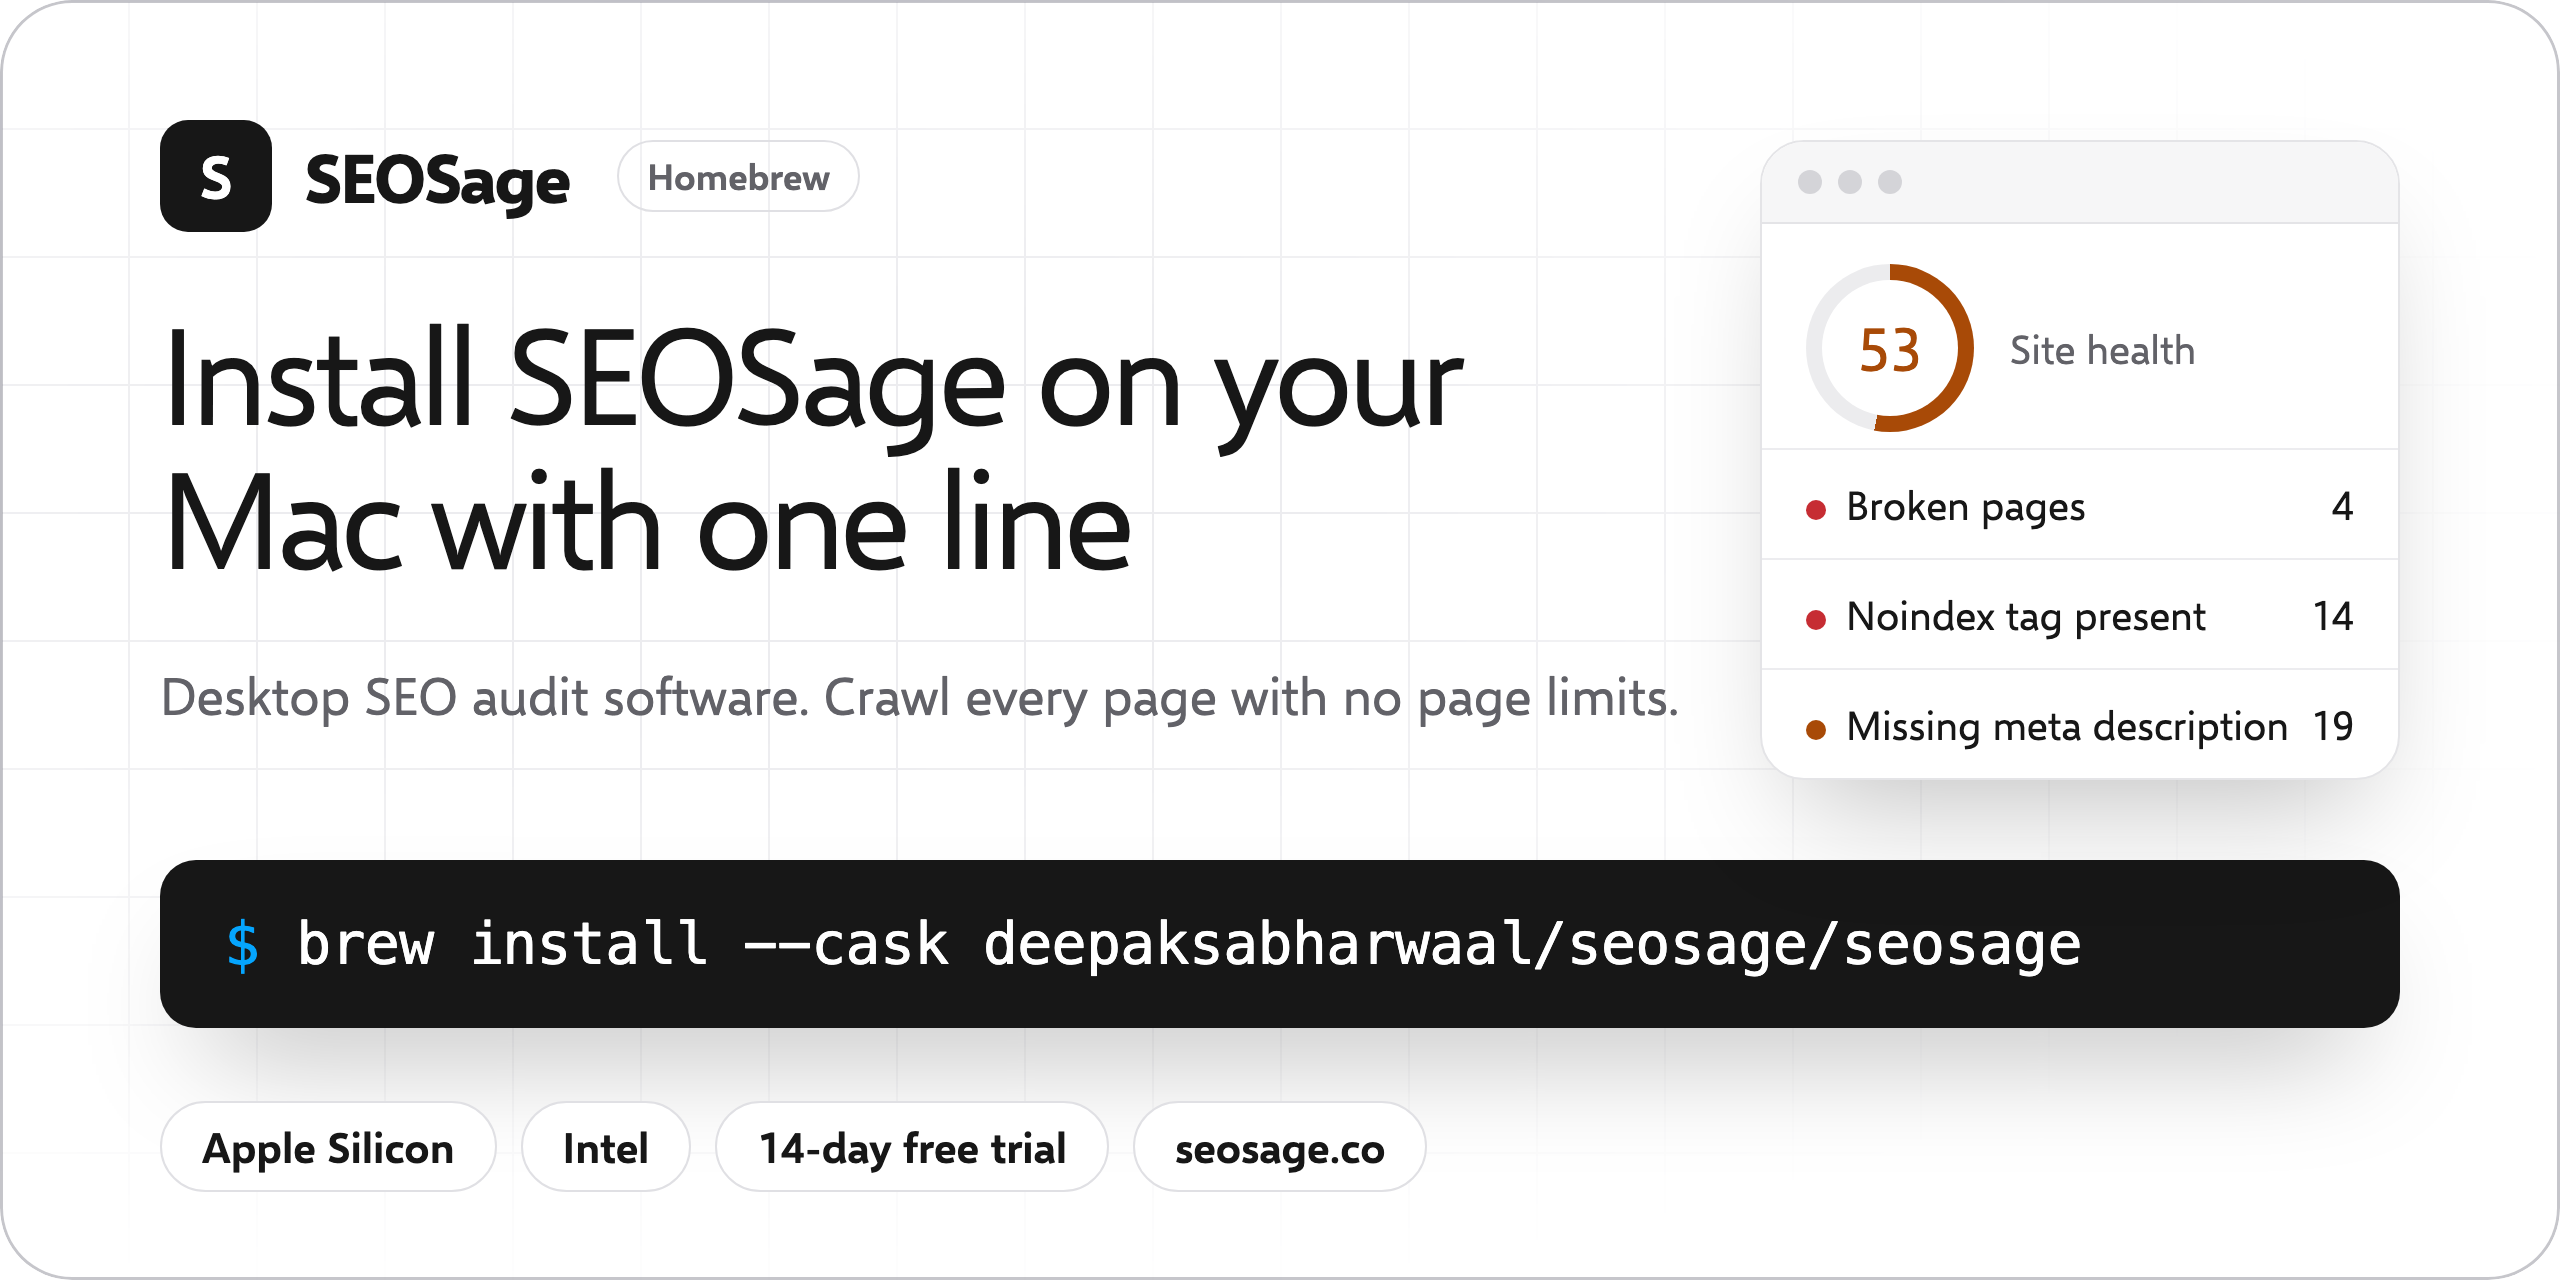
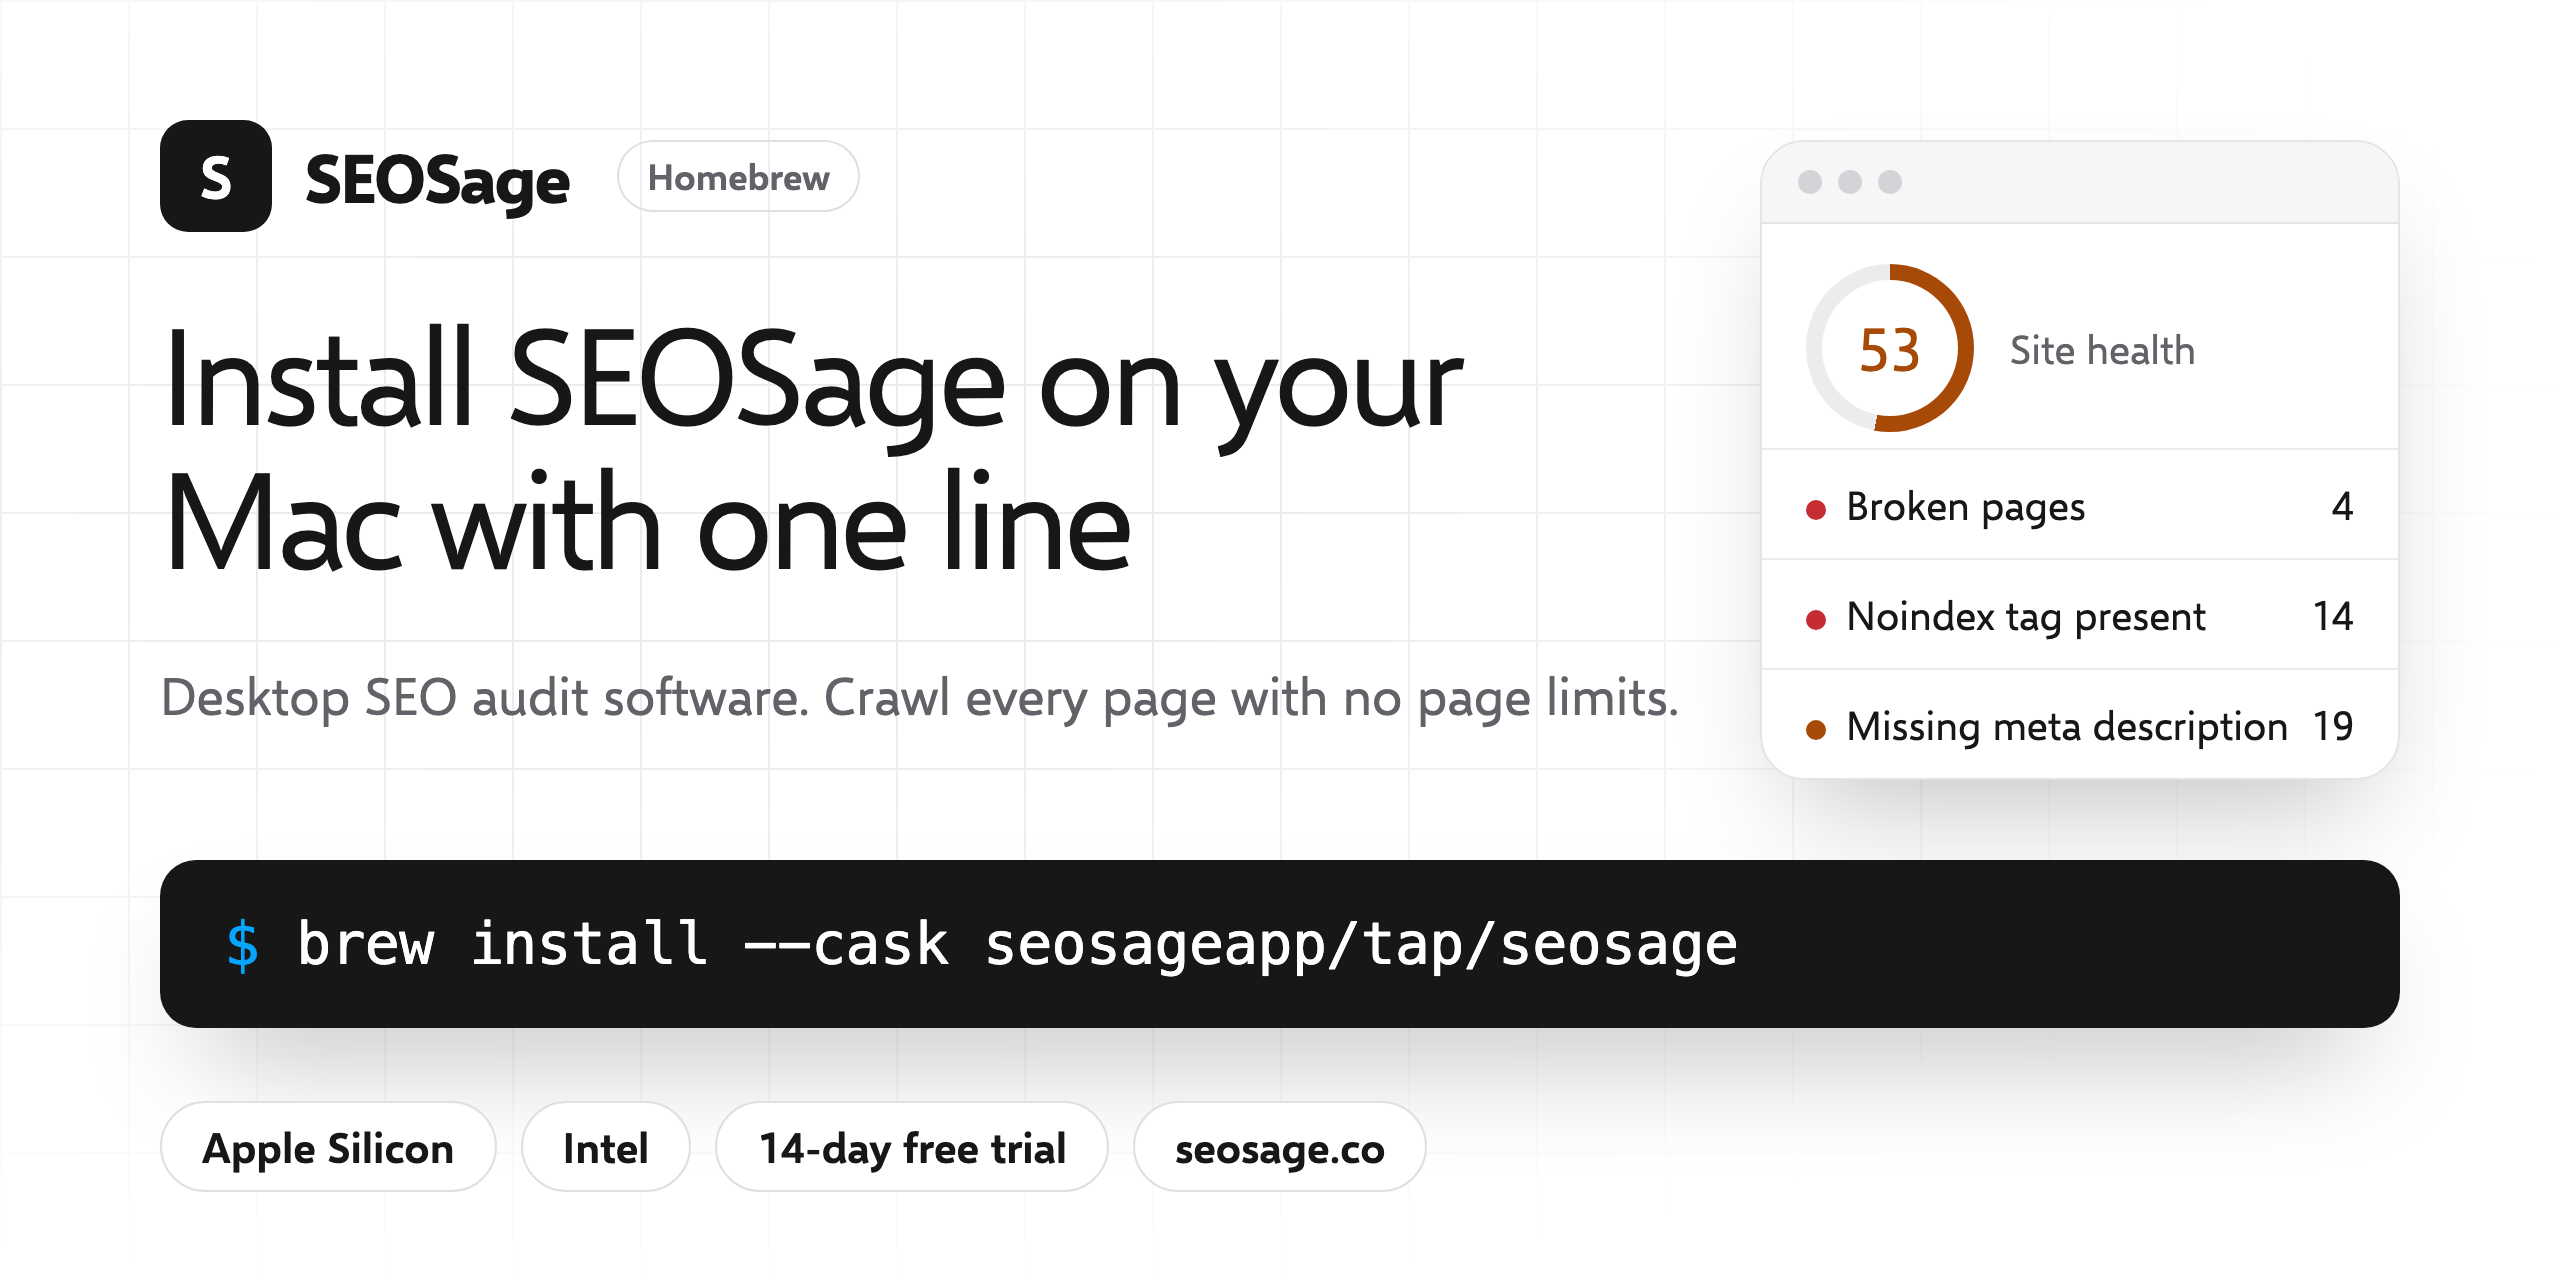
Install from seosageapp/tap after the move to the SEOSageApp organisation; refresh graphics

Changed region(s): [[0.375, 0.7188, 0.8125, 0.7812]]

diff --git a/README.md b/README.md
@@ -1,5 +1,5 @@
 <p align="center">
-  <a href="https://seosage.co/"><img src="assets/banner.png?v=6" alt="SEOSage app for Mac: install the desktop SEO audit software with one Homebrew command" width="100%"></a>
+  <a href="https://seosage.co/"><img src="assets/banner.png?v=7" alt="SEOSage app for Mac: install the desktop SEO audit software with one Homebrew command" width="100%"></a>
 </p>
 
 # SEOSage: desktop SEO audit software for Mac and Windows
@@ -10,10 +10,10 @@ This is the public project page. The app itself is commercial software and its c
 
 ## Install on Mac with Homebrew
 
-<p align="center"><img src="assets/install.png?v=6" alt="Terminal showing the brew command to install, update and remove the SEOSage app" width="80%"></p>
+<p align="center"><img src="assets/install.png?v=7" alt="Terminal showing the brew command to install, update and remove the SEOSage app" width="80%"></p>
 
 ```sh
-brew install --cask deepaksabharwaal/seosage/seosage
+brew install --cask seosageapp/tap/seosage
 ```
 
 Update later:
@@ -28,7 +28,7 @@ Uninstall:
 brew uninstall --cask seosage
 ```
 
-Works on Apple Silicon (M1, M2, M3, M4) and Intel Macs. Homebrew picks the right file for your Mac. The install file lives in the [homebrew-seosage](https://github.com/DeepakSabharwaal/homebrew-seosage) tap.
+Works on Apple Silicon (M1, M2, M3, M4) and Intel Macs. Homebrew picks the right file for your Mac. The install file lives in the [SEOSageApp/homebrew-tap](https://github.com/SEOSageApp/homebrew-tap) tap.
 
 **Windows:** use the installer on the [download page](https://seosage.co/download/).
 
@@ -36,9 +36,9 @@ Works on Apple Silicon (M1, M2, M3, M4) and Intel Macs. Homebrew picks the right
 
 Crawl a whole site, see every issue grouped by type, click one to see the pages it affects, then export a report for your client. The screens below are from a real crawl of [marketingly.org](https://marketingly.org/).
 
-<p align="center"><img src="assets/screen-issues.png?v=6" alt="SEOSage app Issues screen listing errors, warnings and notices from a full site crawl" width="90%"></p>
+<p align="center"><img src="assets/screen-issues.png?v=7" alt="SEOSage app Issues screen listing errors, warnings and notices from a full site crawl" width="90%"></p>
 
-<p align="center"><img src="assets/screen-report.png?v=6" alt="SEOSage app Reports screen with site health score and export to CSV, PDF or PowerPoint" width="90%"></p>
+<p align="center"><img src="assets/screen-report.png?v=7" alt="SEOSage app Reports screen with site health score and export to CSV, PDF or PowerPoint" width="90%"></p>
 
 ## Licence
 
